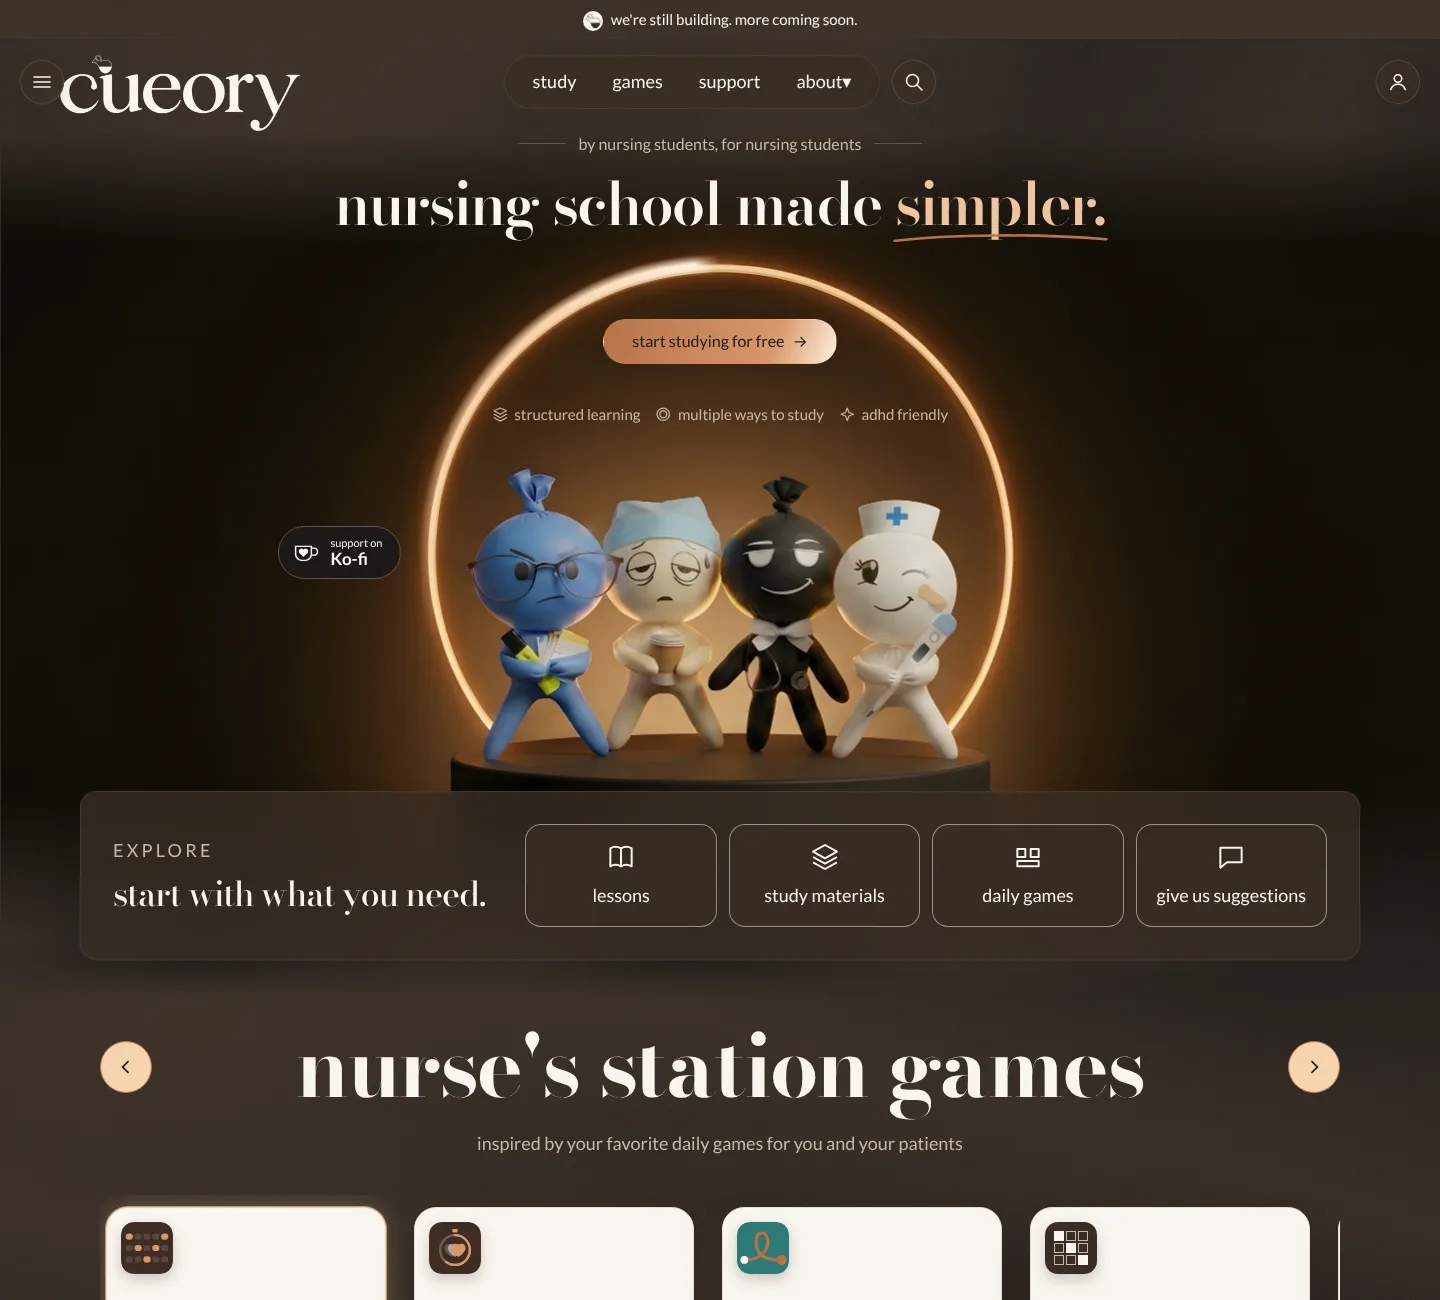
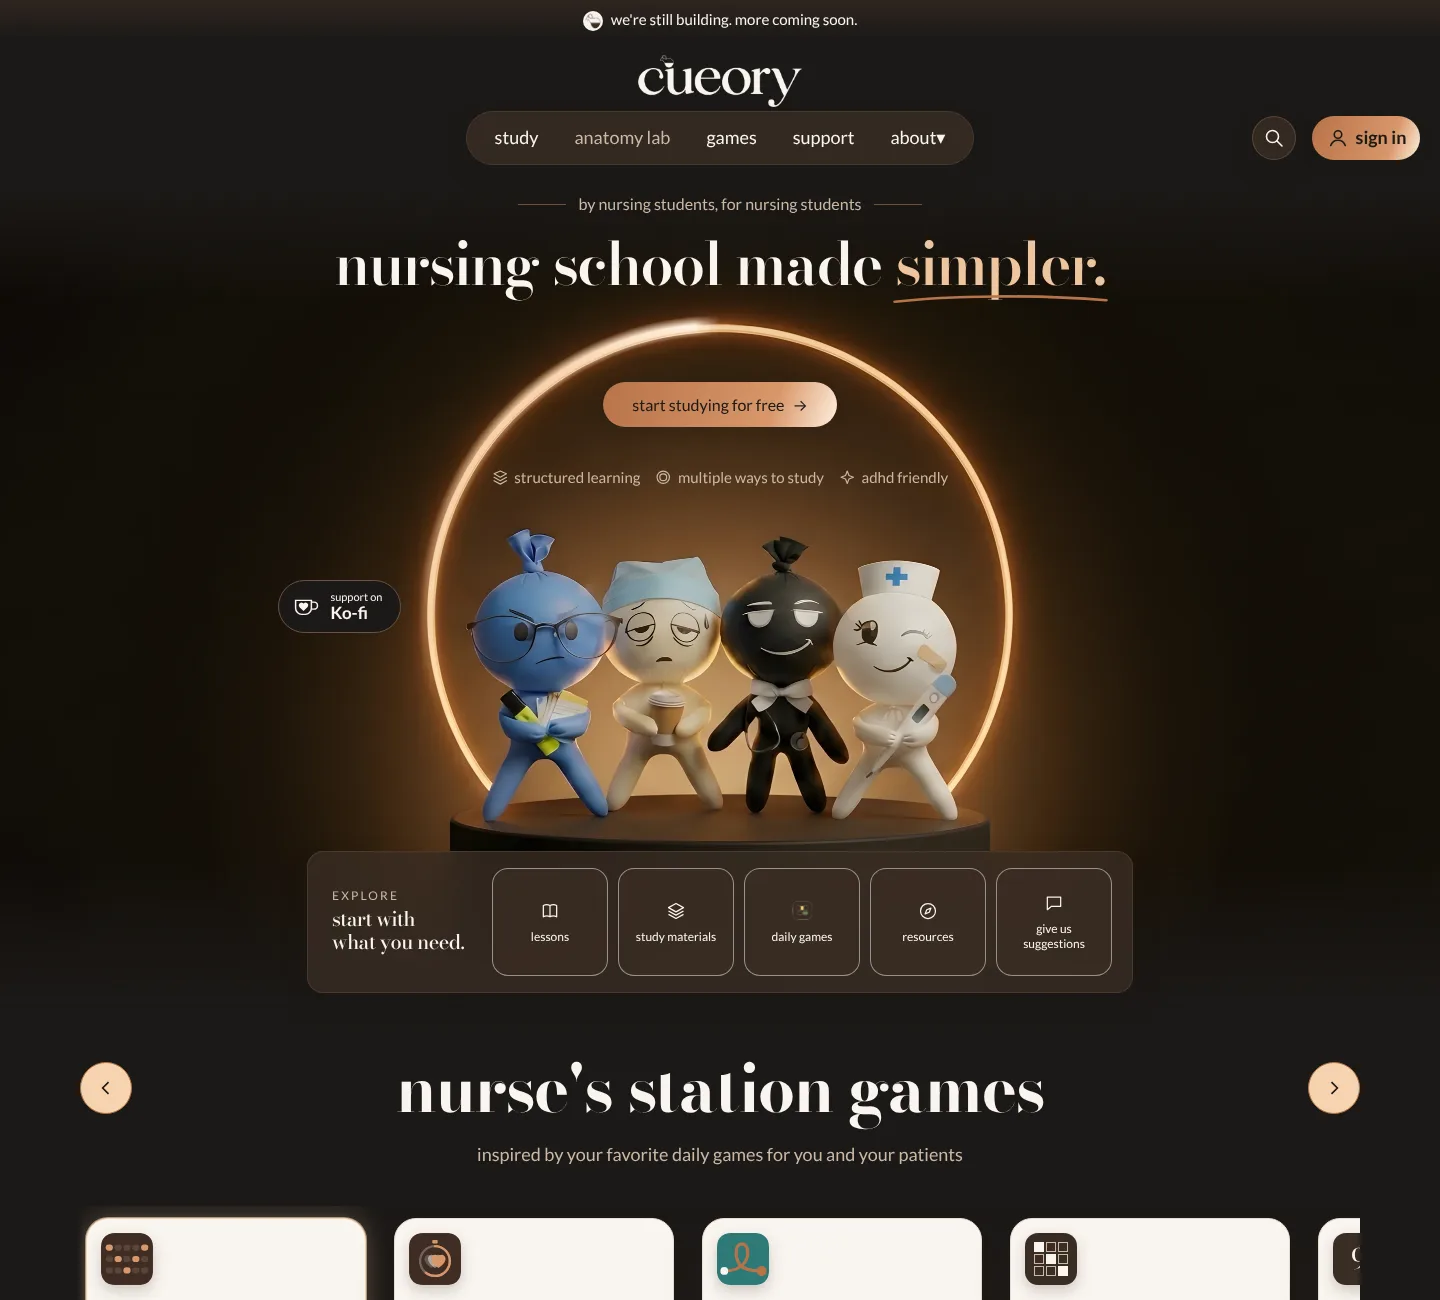
Home v3 lane B: one copper start link (library on live build), even beige ground, board-sized explore dock and Ko-fi pill, retake hero and dock pictures
Claude-Session: https://claude.ai/code/session_01V8pHm5xDFd3PCqqXThexqv

diff --git a/src/styles/tokens.css b/src/styles/tokens.css
@@ -349,17 +349,22 @@
   --explore-overlap: -5.75rem;      /* the explore dock overlaps the bottom of the hero stage (board: 92 px at 1440) */
   --explore-landscape-gap: 0.5rem;  /* phone landscape: the dock sits this far under the hero's points (which carry 28 px of their own: about 36 px in all, board 35), no overlap */
   --explore-landscape-width: 40.875rem; /* phone landscape: the dock is at most 654 px wide (board) */
-  --explore-landscape-heading-width: 8.5rem; /* holds "what you need." (132 px at 20 px) on one line */
-  --explore-landscape-tile-text: 0.75rem; /* board: 12 px tile labels on phone landscape */
+  --explore-landscape-heading-width: 8.125rem; /* board: 130 px; "what you need." in Bodoni at 18 px fits on one line */
   --explore-dock-width: 51.625rem;  /* board: 826 px at 1440 (780 + padding + border) */
-  --explore-dock-gap: 1rem;
-  --explore-dock-padding: 1.25rem;
+  --explore-dock-gap: 1.125rem;     /* board: 18 px between heading and tiles (phone 12, landscape 12) */
+  --explore-dock-padding: 1rem 1.25rem 1rem 1.5rem; /* board: 16 20 16 24 (phone 16 all round, landscape 12 14 12 18) */
   --explore-dock-tile-gap: 0.625rem;
-  --explore-dock-title: 1.25rem;
-  --explore-dock-heading-width: 9.5rem;
+  --explore-dock-title: 1.25rem;     /* board: 20 px (phone 26, landscape 21) */
+  --explore-tile-text: 0.75rem;      /* board: 12 px labels (phone 13, landscape 11) */
+  --explore-tile-padding: calc(var(--spacing) * 3) calc(var(--spacing) * 2); /* board: 12 8 (phone 10 4, landscape 8 2) */
+  --explore-tile-inner-gap: calc(var(--spacing) * 2); /* icon to label: board 8 (landscape 6) */
+  --explore-wrap-gutter: var(--spacing-gutter); /* the dock's side margin: the page gutter (phone board: 16) */
+  --explore-dock-heading-width: 8.875rem; /* board: heading column 142 px at 1440 (tiles 116 wide) */
+  --explore-caps-size: 0.75rem;     /* board: EXPLORE at 12 px, 6 px above the title */
+  --explore-caps-gap: 0.375rem;
   --explore-tile-basis-min: 5.75rem; /* a phone tile never gets narrower than this; the row wraps instead */
-  --explore-tile-min: 5.125rem;     /* board: 82 px */
-  --explore-icon: 1.5rem;
+  --explore-tile-min: 6.75rem;      /* board: 108 px (phone 108, landscape 88) */
+  --explore-icon: 1.25rem;           /* board: 20 px icons (phone 28, landscape 24) */
   --radius-panel: 2.125rem;     /* the home explore panel's corners (board: 34 px) */
   --radius-card-lg: 1.75rem;    /* the hero's support card corners */
   --icon-size-mug: 2.5rem;      /* the Ko-fi cup mark, width */
@@ -788,6 +793,10 @@
   --silk-wash-rgb: 246 211 174; /* Copper Glow */
   --silk-wash-alpha: 0.75;
   --silk-fold-layer: 1.4; /* how strongly the fold mask shows the peach layer: the creases and glints (P3c) */
+  /* Home ground (boards, 24 Nov): from the hero down the home page is one even, slightly grey beige, left to right (board #d8cebd to #e9e2d7), with no peach bands between sections. Palette mixes only. */
+  --home-ground-a: color-mix(in srgb, var(--color-surface) 86%, var(--color-highlight)); /* Linen + a little Mocha */
+  --home-ground-b: color-mix(in srgb, var(--color-surface) 70%, var(--color-page));  /* Linen + Ivory */
+  --home-ground: linear-gradient(90deg, var(--home-ground-a), var(--home-ground-b));
   --silk-fold-height: 47.5rem; /* one tile of the boards' fold mask (public/design/silk-fold-mask.svg, 1440 x 760) */
   /* Frosted panels: Ivory, three-quarters opaque. A plain rgb() so every browser gets the right panel color. */
   --veil-rgb: 249 245 239;      /* Ivory */
@@ -913,6 +922,9 @@
     --silk-peach-rgb: 58 45 36;    /* Walnut: Evening stays quiet */
     --silk-peach-alpha: 0.7;
     --silk-fold-layer: 0.6; /* Evening keeps the creases as quiet as before */
+    --home-ground-a: var(--color-page); /* Evening: one even Charcoal (the board is a shade darker than the palette goes) */
+    --home-ground-b: var(--color-page);
+    --home-ground: linear-gradient(90deg, var(--home-ground-a), var(--home-ground-b));
     --silk-wash-rgb: 58 45 36;    /* Walnut */
     --silk-wash-alpha: 0;         /* no wash in Evening */
     --veil-rgb: 58 45 36;         /* Walnut */
@@ -1040,6 +1052,9 @@
   --silk-peach-rgb: 58 45 36;    /* Walnut: Evening stays quiet */
   --silk-peach-alpha: 0.7;
   --silk-fold-layer: 0.6; /* Evening keeps the creases as quiet as before */
+  --home-ground-a: var(--color-page); /* Evening: one even Charcoal (the board is a shade darker than the palette goes) */
+  --home-ground-b: var(--color-page);
+  --home-ground: linear-gradient(90deg, var(--home-ground-a), var(--home-ground-b));
   --silk-wash-rgb: 58 45 36;    /* Walnut */
   --silk-wash-alpha: 0;         /* no wash in Evening */
   --veil-rgb: 58 45 36;         /* Walnut */
@@ -1183,6 +1198,7 @@
   --stage-bottom-gap: 2.6875rem;   /* 43 + 16 = 59 px from the dock to the next heading (board 59); the next scene fades in over this strip, so no text sits in it */
 }
 @media (width < 40rem) {
+  :root { --explore-dock-gap: 0.75rem; --explore-dock-padding: 1rem; --explore-dock-title: 1.625rem; --explore-tile-text: 0.8125rem; --explore-tile-padding: calc(var(--spacing) * 2.5) var(--spacing); --explore-dock-tile-gap: 0.5rem; --explore-wrap-gutter: 1rem; --explore-icon: 1.75rem; }
   :root { --stage-bottom-gap: 3rem; --stage-next-top-pad: 1rem; } /* board: 64 px (this 48 px strip plus the next section's 16 px) */
 }
 .scene-hero {
@@ -1191,6 +1207,10 @@
 }
 @media (orientation: landscape) and (40rem <= width < 60rem) and (height < 32rem) {
   .scene-hero { --stage-dock-overlap: 0px; }
+}
+
+@media (orientation: landscape) and (max-height: 32em) {
+  :root { --explore-dock-gap: 0.75rem; --explore-dock-padding: 0.75rem 0.875rem 0.75rem 1.125rem; --explore-dock-title: 1.125rem; --explore-tile-text: 0.6875rem; --explore-tile-padding: calc(var(--spacing) * 2) calc(var(--spacing) * .5); --explore-tile-inner-gap: calc(var(--spacing) * 1.5); --explore-icon: 1.5rem; --explore-tile-min: 5.5rem; --explore-dock-tile-gap: 0.4375rem; }
 }
 
 /* Approved Home v3 camera crop and layout, from the 1440 and 390 boards. */
@@ -1214,16 +1234,16 @@
   --stage-tip-name: 1.0625rem;
   --stage-tip-leading: 1.12;
   --stage-tip-padding: .625rem 1.125rem .625rem .875rem;
-  --stage-action-margin: clamp(2.375rem, 5.75vw, 5.25rem) auto 2.375rem;
+  --stage-action-margin: clamp(2.375rem, calc(5.75vw + .1875rem), 5.4375rem) auto 2.375rem;
   --stage-width: min(100%, 60rem);
-  --stage-margin: 2.25rem auto 0;
+  --stage-margin: 2.0625rem auto 0;
   --stage-height: clamp(20rem, 36vw, 26.25rem);
   --stage-photo-top: max(-22.9vw, -20.625rem);
   --stage-photo-width: min(100vw, 90rem);
   --stage-photo-mask: linear-gradient(transparent, currentColor 14%, currentColor 82%, transparent);
   --stage-halo-top: min(6.5vw, 5.875rem);
   --stage-halo-width: min(42vw, 37.75rem);
-  --stage-tip-top: 15%;
+  --stage-tip-top: calc(15% - .375rem);
   --stage-tip-bottom: auto;
   --stage-tip-left: 4%;
   --stage-tip-offset: none;
@@ -1254,7 +1274,7 @@
     --stage-halo-top: 10.75rem;  /* centred on the ring painted in the photo, so the travelling light follows it */
     --stage-halo-width: 20rem;
     --stage-tip-top: auto;
-    --stage-tip-bottom: calc(var(--stage-dock-overlap) + 2.1875rem);  /* above the dock, as on the board */
+    --stage-tip-bottom: calc(var(--stage-dock-overlap) + 1.25rem);  /* above the dock, as on the board (pill 15 px lower than before) */
     --stage-tip-left: 50%;
     --stage-tip-offset: translateX(-50%);
   }
@@ -1271,8 +1291,8 @@
     --stage-heading-gap: 1.25rem;
     --stage-eyebrow-size: .875rem;
     --stage-eyebrow-rule: 2.25rem;
-    --stage-action-margin: 3.9375rem auto 0;
-    --stage-margin: -10.25rem auto 0;
+    --stage-action-margin: 4.125rem auto 0;
+    --stage-margin: -10.4375rem auto 0;
     --stage-points-margin: 1.25rem auto 1.75rem;
     --stage-width: min(100%, 36rem);
     --stage-height: 27.9rem;
@@ -1280,7 +1300,11 @@
     --stage-photo-top: -.5rem;
     --stage-halo-top: 16.2rem;
     --stage-halo-width: 22.625rem;
-    --stage-tip-top: 14.75rem;
+    --stage-tip-top: 14.875rem;
+    --stage-tip-small: .5625rem;
+    --stage-tip-name: .875rem;
+    --stage-tip-icon: 1.375rem;
+    --stage-tip-padding: .375rem .75rem .375rem .625rem;
     --stage-tip-left: max(-10%, calc((100% - 100vw) / 2 + var(--spacing-gutter)));
   }
 

diff --git a/tests/unit/home-sections.test.ts b/tests/unit/home-sections.test.ts
@@ -1,7 +1,6 @@
 import { existsSync, readFileSync } from 'node:fs';
 import { describe, expect, it } from 'vitest';
-import { draftsAllowed } from '../../src/islands/anatomylab';
-import { draftBuildEnv, heroStartHref, lessonEntryHref } from '../../src/lessons/draftgate';
+import { heroStartHref, lessonEntryHref } from '../../src/lessons/draftgate';
 import { accountLaunch, accountsOpen, showsHeroJoin } from '../../src/config/site';
 
 // Verify the built visitor-facing HTML after npm run build, not only Astro source text.
@@ -72,22 +71,14 @@ describe('home lower sections', () => {
     const heading = hero.match(/<h1\b[^>]*>([\s\S]*?)<\/h1>/)?.[1] ?? '';
     expect(plain(heading)).toBe('nursing school made simpler.');
     expect(plain(hero)).toContain('by nursing students, for nursing students');
-    // The "start studying" call to action follows the draft gate (heroStartHref): a copper link to the open lesson where
-    // drafts may show, and in the live build a disabled button tagged "coming soon", never a link that leads nowhere.
-    const open = draftsAllowed(draftBuildEnv(process.env));
-    const startTag = hero.match(/<(a|button)\b(?=[^>]*data-testid="hero-start")[^>]*>([\s\S]*?)<\/\1>/);
-    expect(plain(startTag?.[2] ?? '')).toBe('start studying for free →');
-    if (open) {
-      expect(startTag?.[1]).toBe('a');
-      expect(startTag?.[0]).toContain('href="' + lessonEntryHref(process.env) + '"');
-      expect(startTag?.[0]).toContain('copper-button');
-      expect(startTag?.[0]).not.toContain('aria-disabled');
-    } else {
-      expect(startTag?.[1]).toBe('button');
-      expect(startTag?.[0]).toContain('aria-disabled="true"');
-      expect(startTag?.[0]).not.toContain('href=');
-      expect(hero).toContain('coming soon');
-    }
+    // The one "start studying" call to action is always a copper link (heroStartHref): the open lesson where drafts may
+    // show, the lesson library on the live build. No "coming soon" pill and no second link beside it.
+    const startTag = hero.match(/<a\b(?=[^>]*data-testid="hero-start")[^>]*>([\s\S]*?)<\/a>/);
+    expect(plain(startTag?.[1] ?? '')).toBe('start studying for free →');
+    expect(startTag?.[0]).toContain('href="' + lessonEntryHref(process.env) + '"');
+    expect(startTag?.[0]).toContain('copper-button');
+    expect(hero).not.toContain('coming soon');
+    expect(hero).not.toContain('data-testid="hero-play-games"');
     // The old quiet launch-list link went away with the old hero (copy deck, "hero quiet link"); the form is lower down.
     expect(hero).not.toContain('data-testid="hero-join"');
     expect(accountLaunch(true)).toMatchObject({ accountHref: '/signup', promoJoinLabel: 'create your free account' });
@@ -121,24 +112,20 @@ describe('home lower sections', () => {
     expect(positions).toEqual([...positions].sort((a, b) => a - b));
     expect(source).toContain('prefers-reduced-motion: no-preference');
     expect(source).toContain('stage-orbit 7s linear infinite');
-    expect(source).toContain('data-testid="hero-play-games"');
-    expect(source).toContain('href="/play"');
+    expect(source).not.toContain('hero-play-games');
   });
 
-  it('the hero start button follows the draft gate: closed live, a link to the open lesson elsewhere', () => {
-    // The live build (a Workers Build of main) holds the sample lesson back, so there is no link to show.
-    expect(heroStartHref({ WORKERS_CI: '1', WORKERS_CI_BRANCH: 'main' })).toBeNull();
-    expect(heroStartHref({ WORKERS_CI: '1', WORKERS_CI_BRANCH: 'refs/heads/main' })).toBeNull();
-    expect(heroStartHref({ WORKERS_CI: '1' })).toBeNull();
-    expect(heroStartHref({})).toBeNull();
-    // Staging, previews and the browser-test build show the sample lesson, and the button links to it.
+  it('the hero start button always links: the open lesson where drafts show, the lesson library on the live build', () => {
+    expect(heroStartHref({ WORKERS_CI: '1', WORKERS_CI_BRANCH: 'main' })).toBe('/learn');
+    expect(heroStartHref({ WORKERS_CI: '1', WORKERS_CI_BRANCH: 'refs/heads/main' })).toBe('/learn');
+    expect(heroStartHref({ WORKERS_CI: '1' })).toBe('/learn');
+    expect(heroStartHref({})).toBe('/learn');
     expect(heroStartHref({ WORKERS_CI: '1', WORKERS_CI_BRANCH: 'staging' })).toBe('/learn/study-skills');
     expect(heroStartHref({ WORKERS_CI: '1', WORKERS_CI_BRANCH: 'task-p5/home-hero' })).toBe('/learn/study-skills');
     expect(heroStartHref({ CUEORY_ANATOMY_DRAFTS: '1' })).toBe('/learn/study-skills');
-    // The hero asks the guard; it never decides on its own.
     const source = readFileSync(new URL('../../src/components/HomeHero.astro', import.meta.url), 'utf8');
     expect(source).toContain('heroStartHref()');
-    expect(source).toMatch(/startHref \? \(/);
+    expect(source).not.toContain('hero-soon');
   });
 
   it('shows the hero join link only when it leads to a real next step', () => {

diff --git a/src/styles/global.css b/src/styles/global.css
@@ -236,6 +236,27 @@
     );
   }
 
+  /*
+    Home ground (boards): from the hero down, the home page is one even beige (Evening: one even Charcoal) with no folds,
+    peach bands or grain between sections. Every scene and the page behind it paint the same flat ground, so the fade
+    between scenes (kept, D-53) blends the ground into itself and never touches a word. Palette mixes only (--home-ground).
+  */
+  body:has(.scene-hero) {
+    background-color: var(--home-ground-b);
+    background-image: var(--home-ground);
+    background-size: auto;
+  }
+
+  body:has(.scene-hero).silk-quiet::before {
+    content: none;
+  }
+
+  body:has(.scene-hero) .scene::before {
+    background-color: var(--home-ground-b);
+    background-image: var(--home-ground);
+    background-size: auto;
+  }
+
   /* The hero: Ivory, light from the upper left. It starts at the top of the page, so nothing fades in above it. */
   .scene-hero {
     --scene-fade-top: 0px;
@@ -409,34 +430,6 @@
     margin-block-start: var(--spacing);
     margin-inline: auto;
     color: var(--color-copper-deep);
-  }
-
-  /* The "coming soon" tag inside the closed call to action: words, so it never relies on colour alone. */
-  .hero-soon {
-    border: 1px solid var(--cueory-copper-ink);
-    border-radius: var(--radius-pill);
-    padding-inline: calc(var(--spacing) * 2);
-    font-size: var(--text-base);
-    font-weight: 400;
-  }
-
-  /* The secondary action beside the start button: an outline pill, never copper (one copper button per screen). */
-  .hero-secondary-link {
-    display: inline-flex;
-    align-items: center;
-    justify-content: center;
-    gap: calc(var(--spacing) * 2);
-    min-block-size: var(--tap-min);
-    padding: calc(var(--spacing) * 3) calc(var(--spacing) * 6);
-    border: 1px solid var(--color-control);
-    border-radius: var(--radius-pill);
-    font-weight: 700;
-    color: var(--color-ink);
-    text-decoration: none;
-  }
-
-  .hero-secondary-link:hover {
-    background-color: rgb(var(--glass-hover-rgb) / var(--glass-hover-alpha));
   }
 
   .hero-icon,

diff --git a/src/lessons/draftgate.ts b/src/lessons/draftgate.ts
@@ -41,11 +41,11 @@ export function lessonEntryHref(source: Record<string, string | undefined> = pro
 }
 
 /**
- * Where the home hero's "start studying for free" button goes, or null while the build has no open lesson (the live
- * build holds the sample lesson back), when the hero shows it closed and tagged "coming soon" instead of a link.
+ * Where the home hero's one "start studying for free" button goes: the sample lesson where it shows, the lesson library
+ * (/learn, a public page that itself holds the sample back) on the live build.
  */
-export function heroStartHref(source: Record<string, string | undefined> = process.env): string | null {
-  return sampleLessonShown(source) ? lessonEntryHref(source) : null;
+export function heroStartHref(source: Record<string, string | undefined> = process.env): string {
+  return lessonEntryHref(source);
 }
 
 /**
